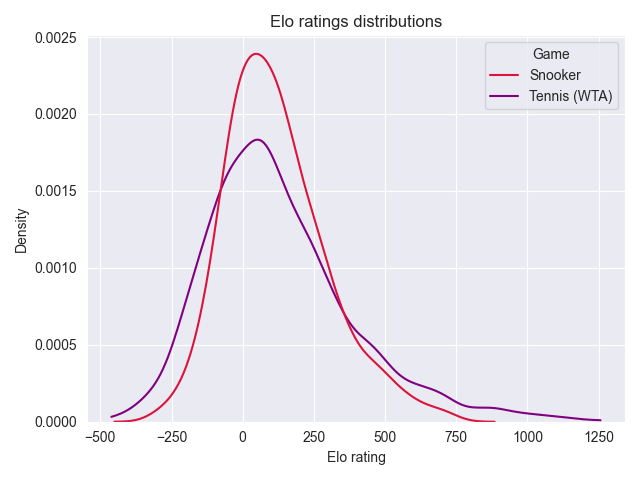
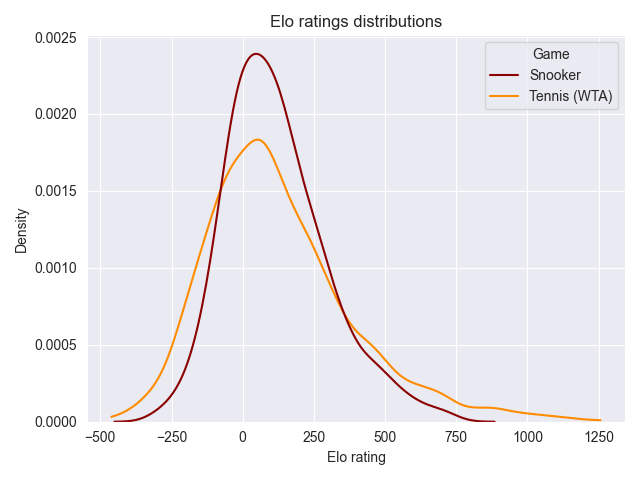
Updated Snooker/Tennis plot

diff --git a/experiments/elo/notebooks/Elo distribution plot.py b/experiments/elo/notebooks/Elo distribution plot.py
@@ -23,8 +23,8 @@ from matplotlib import pyplot as plt
 jupyter_black.load()
 sns.set_style("dark")
 
-game_ids = ("snooker", "tennis_wta", "football_international")
-names = ("Snooker", "Tennis (WTA)", "Football (men's national teams)")
+game_ids = ("snooker", "tennis_wta") # "football_international"
+names = ("Snooker", "Tennis (WTA)") # "Football (men's national teams)"
 colors = ("darkred", "darkorange", "darkgreen")
 color_palette = dict(zip(names, colors))
 
